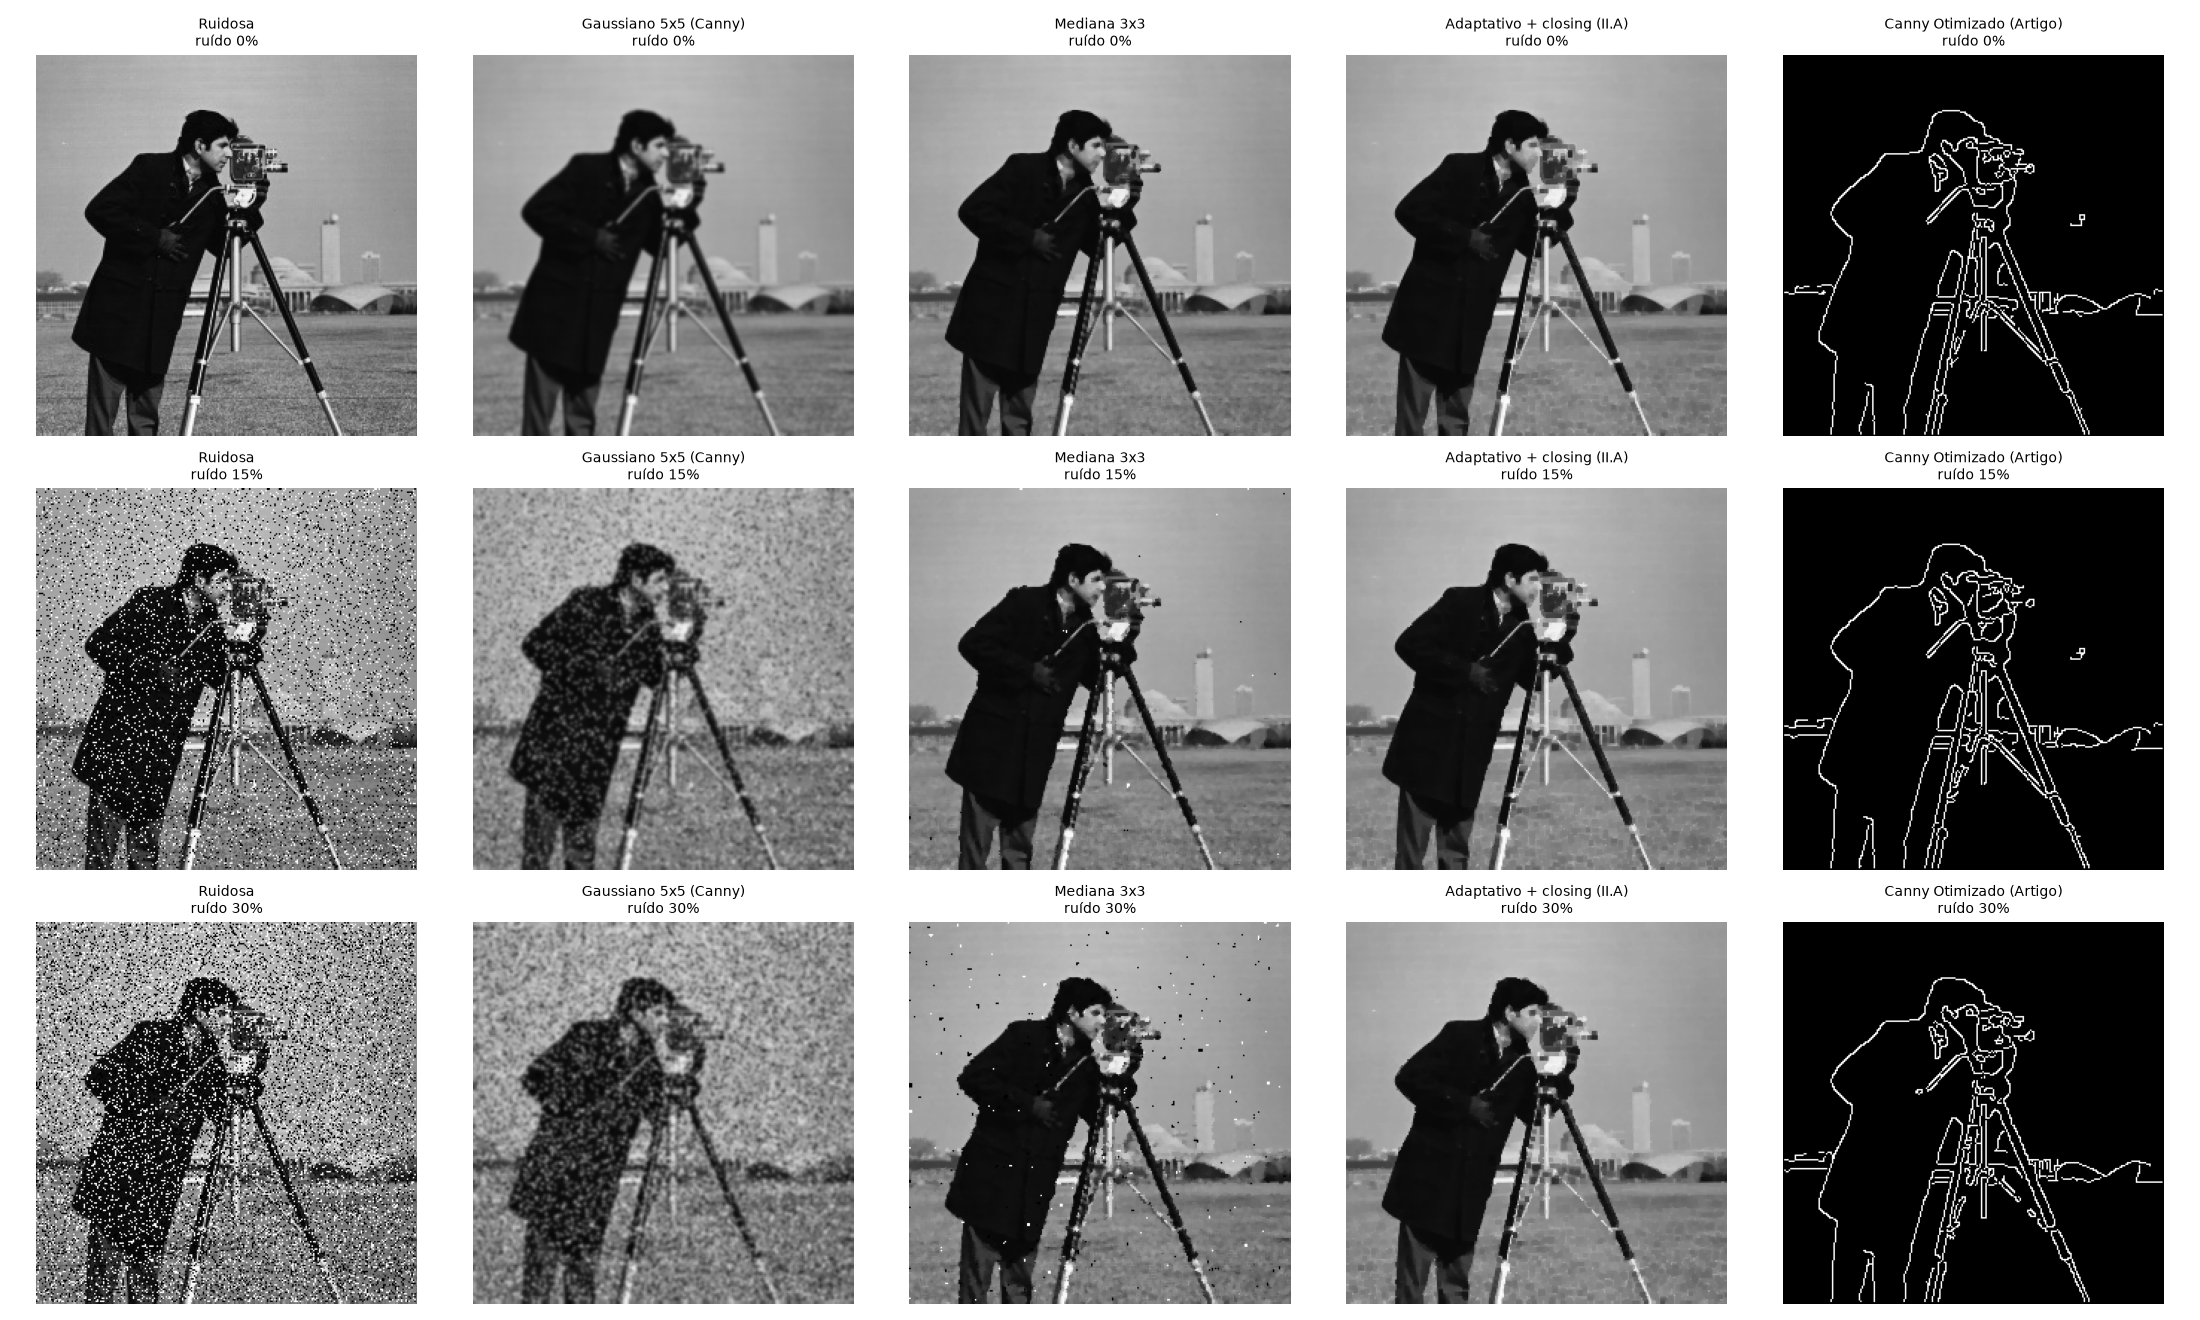
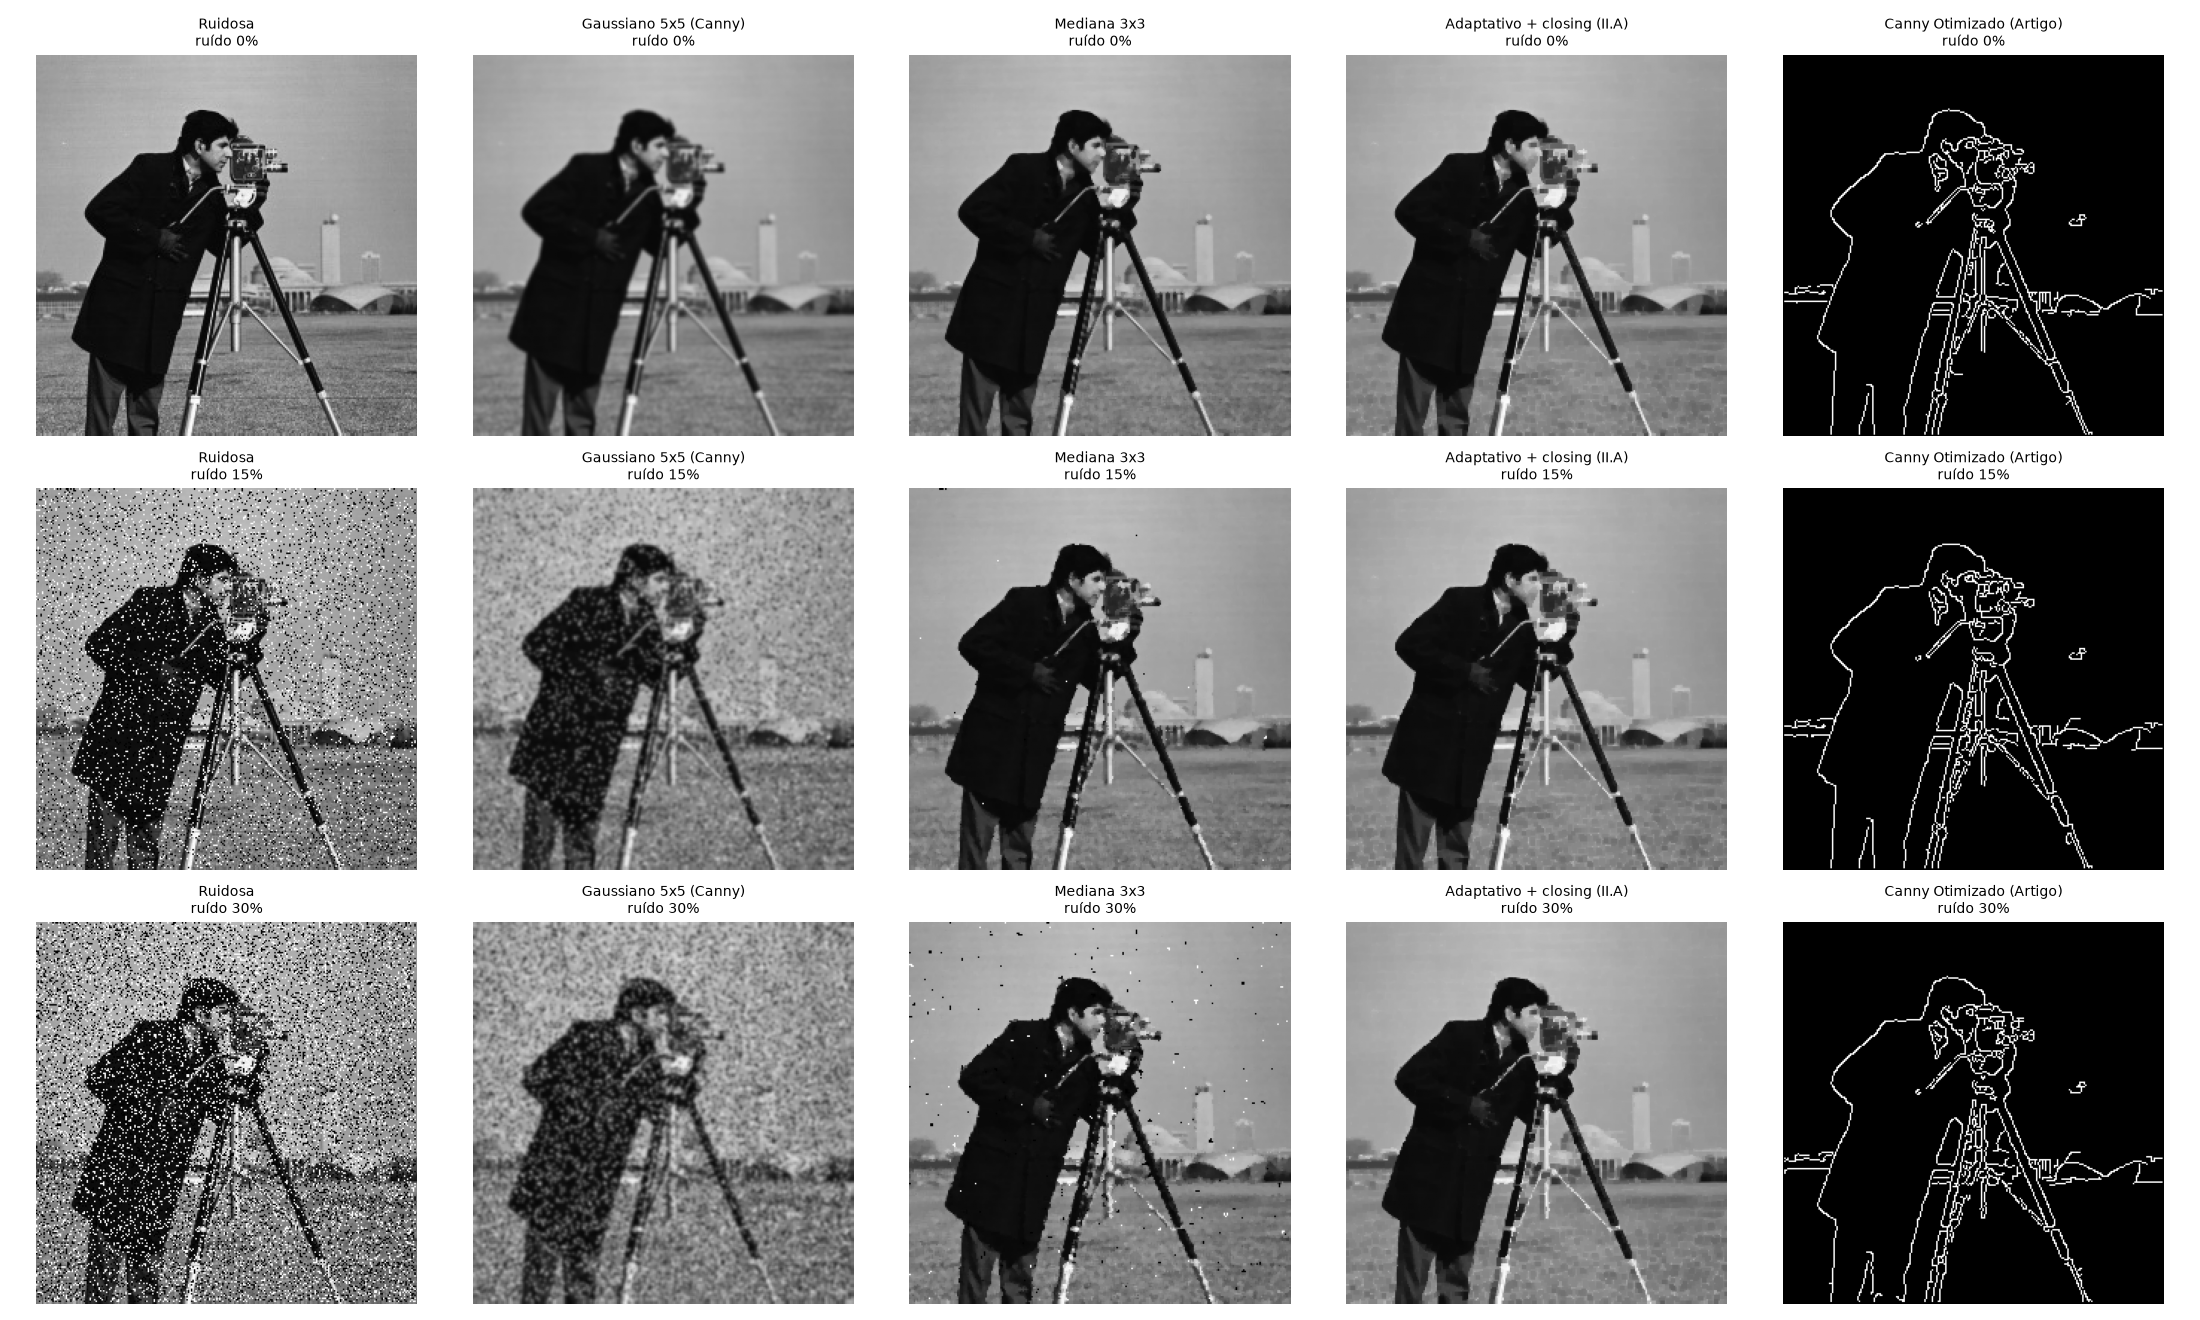
atualizacao mais coerente com o artigo

diff --git a/src/canny_opt/gradient_and_threshold.py b/src/canny_opt/gradient_and_threshold.py
@@ -1,51 +1,81 @@
-# gradient_and_threshold.py
 import numpy as np
 import cv2
 
-def get_8direction_templates(size=5, sigma_d=1.0, sigma_s=1.5):
-    r = size // 2
-    y, x = np.mgrid[-r:r + 1, -r:r + 1].astype(np.float32)
+# =====================================================================
+# SEÇÃO II.B - GRADIENTE EM 8 DIREÇÕES (Eq. 4 e 5)
+# =====================================================================
+
+# Matrizes da Eq. (4), transcritas do PDF exatamente como impressas.
+PAPER_TEMPLATES = {
+    0.0:   [[ 0,  0,  0,  0,  0], [-1, -2, -4, -2, -1], [ 0,  0,  0,  0,  0], [ 1,  2,  4,  2,  1], [ 0,  0,  0,  0,  0]],
+    22.5:  [[ 0,  0,  0,  0,  0], [ 0, -2, -4, -2,  0], [ 0, -4,  0,  4,  0], [ 0,  2,  4,  2,  0], [ 0,  0,  0,  0,  0]],
+    45.0:  [[ 0,  0,  0, -1,  0], [ 0, -2, -4,  0,  1], [ 0, -4,  0,  4,  0], [-1,  0,  4,  2,  0], [ 0,  1,  0,  0,  0]],
+    67.5:  [[ 0,  0, -1,  0,  0], [ 0, -2, -4,  2,  0], [ 0, -4,  0,  4,  0], [ 0,  2,  4,  2,  0], [ 0,  0,  1,  0,  0]],
+    90.0:  [[ 0, -1,  0,  1,  0], [ 0, -2,  0,  2,  0], [ 0, -4,  0,  4,  0], [ 0, -2,  0,  2,  0], [ 0, -1,  0,  1,  0]],
+    112.5: [[ 0,  0,  1,  0,  0], [ 0, -2, -4,  2,  0], [ 0, -4,  0,  4,  0], [ 0,  2, -4,  2,  0], [ 0,  0, -1,  0,  0]],
+    135.0: [[ 0,  1,  0,  0,  0], [-1,  0,  4,  2,  0], [ 0, -4,  0,  4,  0], [ 0, -2, -4,  0,  1], [ 0,  0,  0, -1,  0]],
+    157.5: [[ 0,  0,  0,  0,  0], [ 0,  2,  4,  2,  0], [-1, -4,  0,  4,  1], [ 0, -2, -4, -2,  0], [ 0,  0,  0,  0,  0]],
+}
+
+
+def get_8direction_templates(fix_zero_sum=True):
+    
     kernels = []
-    for k in range(8):
-        th = np.deg2rad(22.5 * k)
-        u = x * np.cos(th) + y * np.sin(th)      # direção do gradiente
-        v = -x * np.sin(th) + y * np.cos(th)     # direção da borda
-        K = u * np.exp(-u**2 / (2 * sigma_d**2)) * np.exp(-v**2 / (2 * sigma_s**2))
-        K -= K.mean()                             # garante soma zero
-        K /= np.abs(K).sum()
-        kernels.append(K.astype(np.float32))
+    for angle in sorted(PAPER_TEMPLATES):
+        K = np.array(PAPER_TEMPLATES[angle], dtype=np.float32)
+        s = K.sum()
+        if fix_zero_sum and s != 0:
+            nz = K != 0
+            K[nz] -= s / nz.sum()
+        kernels.append(K)
     return kernels
+
 
 _TEMPLATES = get_8direction_templates()
 
+
 def calculate_8direction_gradient(img):
+    
     img_f = img.astype(np.float32)
     responses = [cv2.filter2D(img_f, cv2.CV_32F, K) for K in _TEMPLATES]
-    S = np.sqrt(sum(r**2 for r in responses))            # Eq. (5)
-    A = np.arctan2(responses[4], responses[0])           # S90 = gy, S0 = gx
+
+    S = np.sqrt(sum(r ** 2 for r in responses))
+    S0, S90 = responses[0], responses[4]
+    A = np.arctan2(S0, S90)
     return S, A, responses
 
+
+# =====================================================================
+# SEÇÃO II.C - LIMIARES AUTOMÁTICOS (Eq. 6 a 15)
+# =====================================================================
+
 def adaptive_iterative_threshold(vals, C=0.5, max_iter=100):
-    T = 0.5 * (vals.max() + vals.min())
+    """T_L1 pelo método iterativo (Eq. 6 a 11)."""
+    T = 0.5 * (vals.max() + vals.min())                      # Eq. (6)
     for _ in range(max_iter):
         lo, hi = vals[vals < T], vals[vals >= T]
-        T1 = lo.mean() if lo.size else 0.0
-        T2 = hi.mean() if hi.size else 0.0
-        T_new = 0.5 * (T1 + T2)
-        if abs(T_new - T) < C:
-            return float(0.5 * (T_new + T))
-        T = T_new
+        T1 = lo.mean() if lo.size else 0.0                   # Eq. (7)
+        T2 = hi.mean() if hi.size else 0.0                   # Eq. (8)
+        T_new = 0.5 * (T1 + T2)                              # Eq. (9)
+        T_L = 0.5 * (T_new + T)                              # Eq. (11)
+        if abs(T_new - T) < C:                               # Eq. (10)
+            return float(T_L)
+        T = T_L                                              # novo limiar = média
     return float(T)
 
+
 def otsu_threshold(vals):
+    """T_L2 por Otsu (Eq. 12 e 13), sobre 8 bits."""
     v = np.clip(vals, 0, 255).astype(np.uint8).reshape(-1, 1)
     T, _ = cv2.threshold(v, 0, 255, cv2.THRESH_BINARY + cv2.THRESH_OTSU)
     return float(T)
 
+
 def calculate_automatic_thresholds(nms):
-    vals = nms[nms > 0].astype(np.float32)               # só pixels pós-NMS
+    """Eq. (14) e (15). Usa só os pixels que sobraram da NMS (> 0)."""
+    vals = nms[nms > 0].astype(np.float32)
     T_L1 = adaptive_iterative_threshold(vals)
     T_L2 = otsu_threshold(vals)
-    T_high = 0.5 * (T_L1 + T_L2)                         # Eq. (14)
-    T_low = 0.5 * T_high                                 # Eq. (15)
+    T_high = 0.5 * (T_L1 + T_L2)
+    T_low = 0.5 * T_high
     return T_high, T_low, T_L1, T_L2
